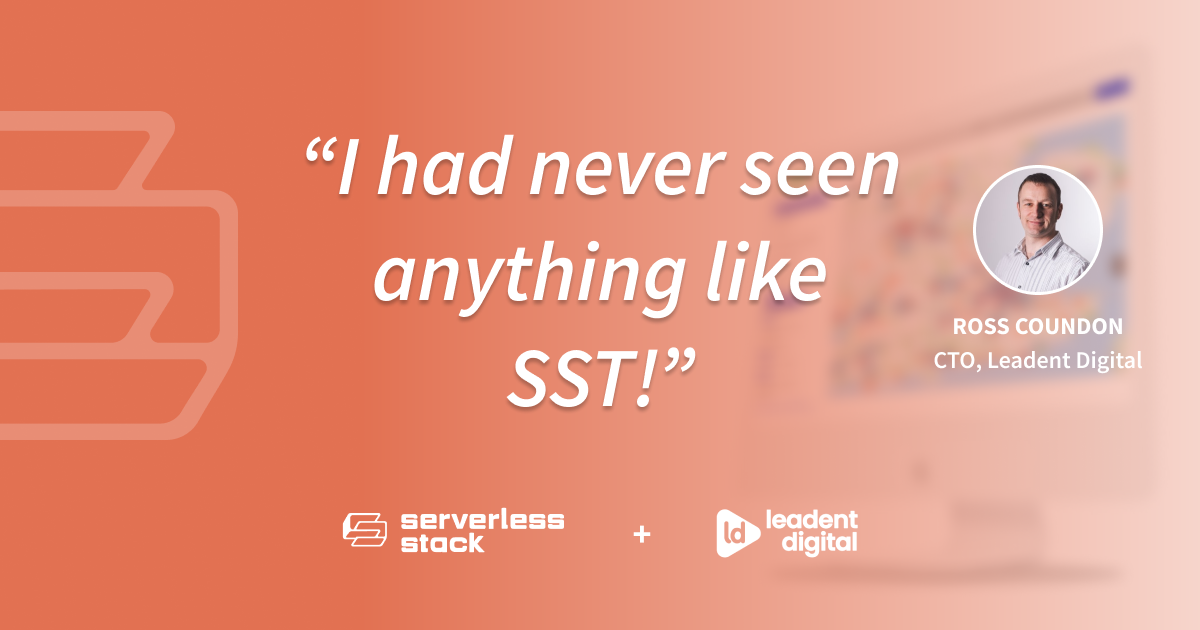
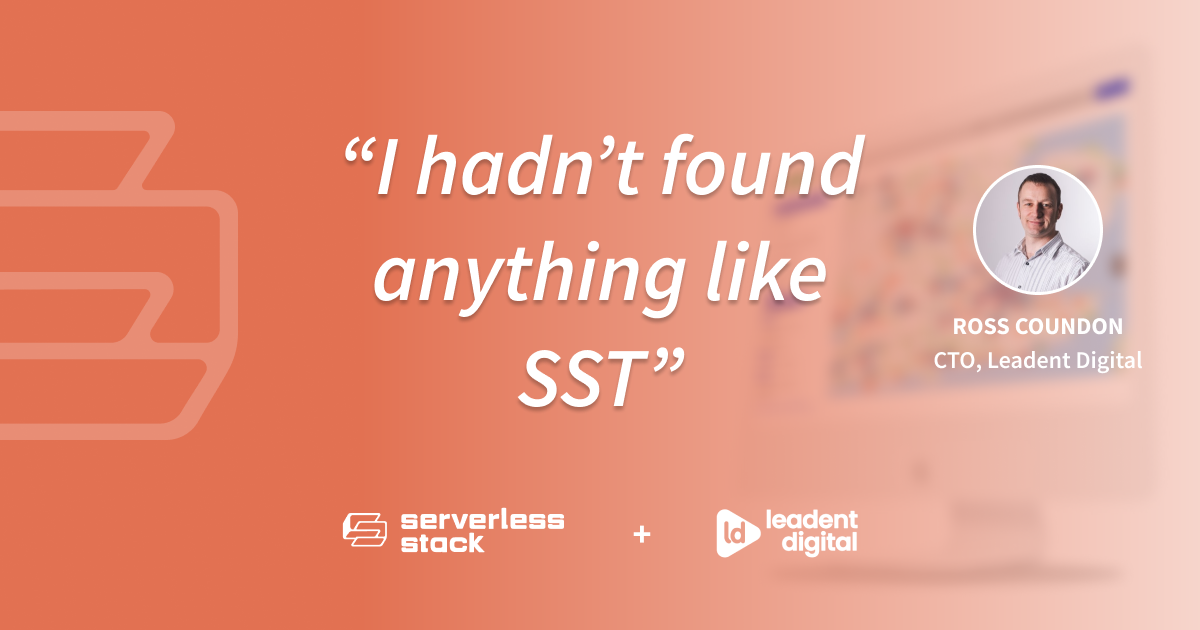
Edits to case study

Changed region(s): [[0.2467, 0.2111, 0.7708, 0.3317], [0.4008, 0.5429, 0.5858, 0.6635]]

diff --git a/_posts/2021-11-11-leadent-digital-is-transforming-field-service-operations-with-sst.md b/_posts/2021-11-11-leadent-digital-is-transforming-field-service-operations-with-sst.md
@@ -49,9 +49,9 @@ SST allowed them to set breakpoints in their code and debug in real-time, which 
 
 > "You can iterate faster and build so much faster."
 
-The entire SST local development process was a revelation for the team. _"I had never seen anything like SST and have never seen something like it since"_, says Ross.
+The entire SST local development process was a revelation for the team. _"I hadn't found anything like SST and haven't seen anything like it since"_, says Ross.
 
-> "I had never seen anything like SST and have never seen something like it since."
+> "I hadn't found anything like SST and haven't seen anything like it since."
 
 They also use [Seed](https://seed.run) to deploy their SST apps. All their major customers have separate deployments of their application. These are also deployed to separate AWS accounts. They use a PR based workflow in Seed and once their changes are merged to master, it gets deployed to all their customer accounts.
 
